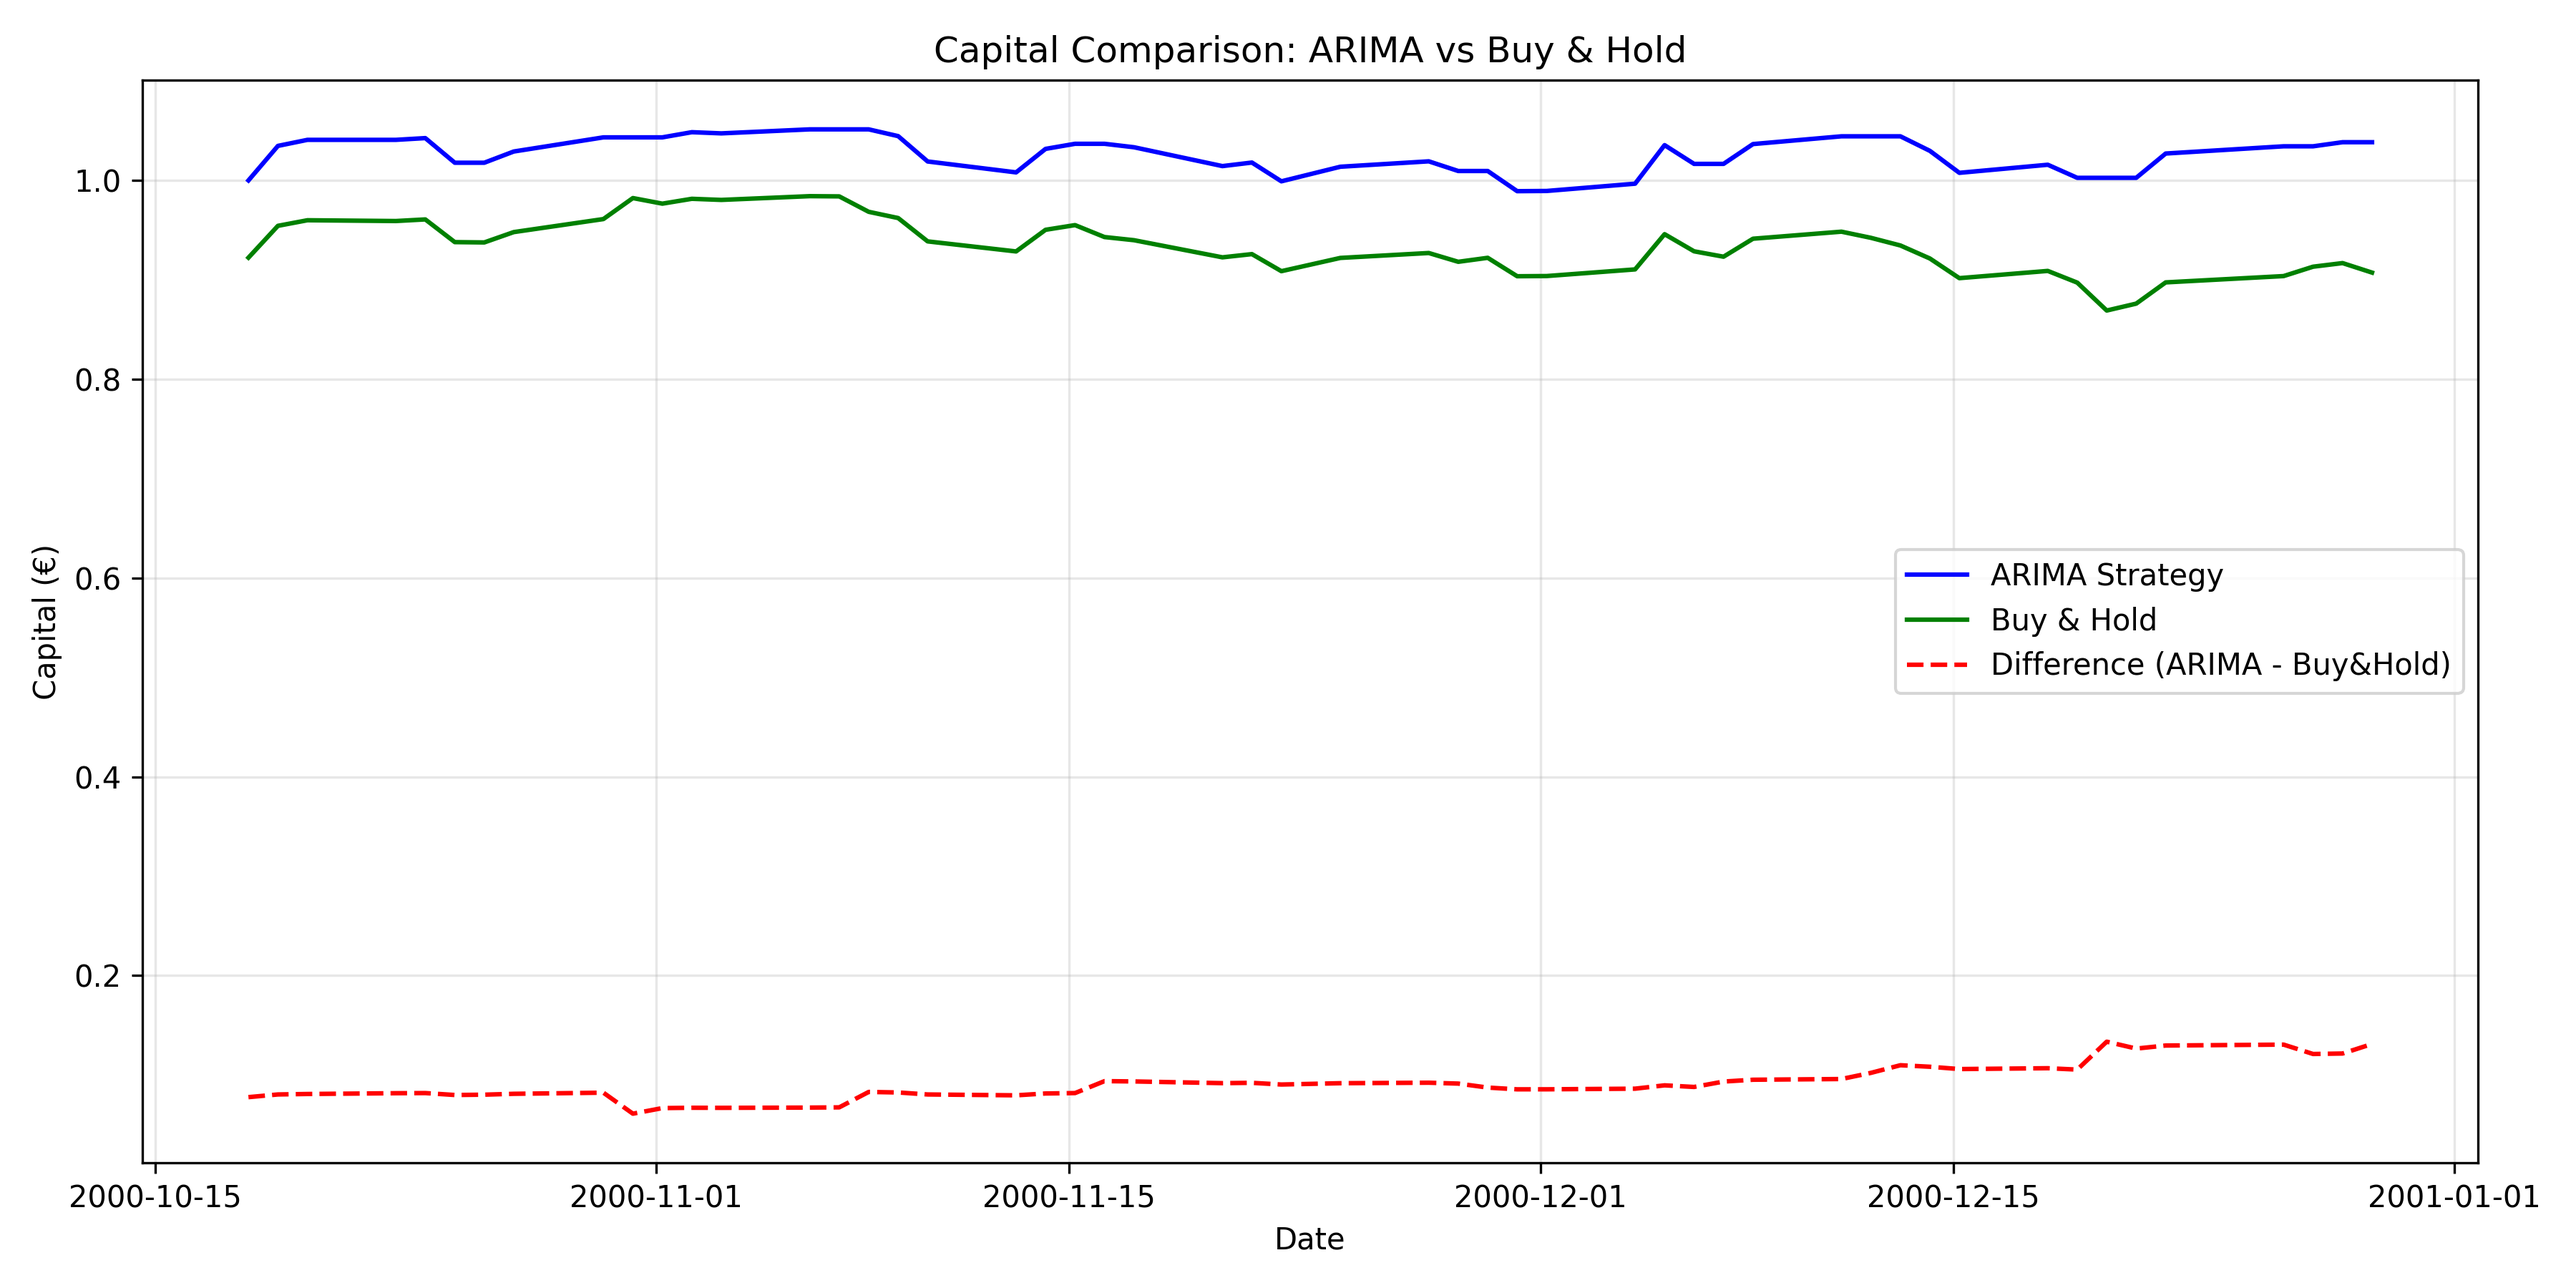
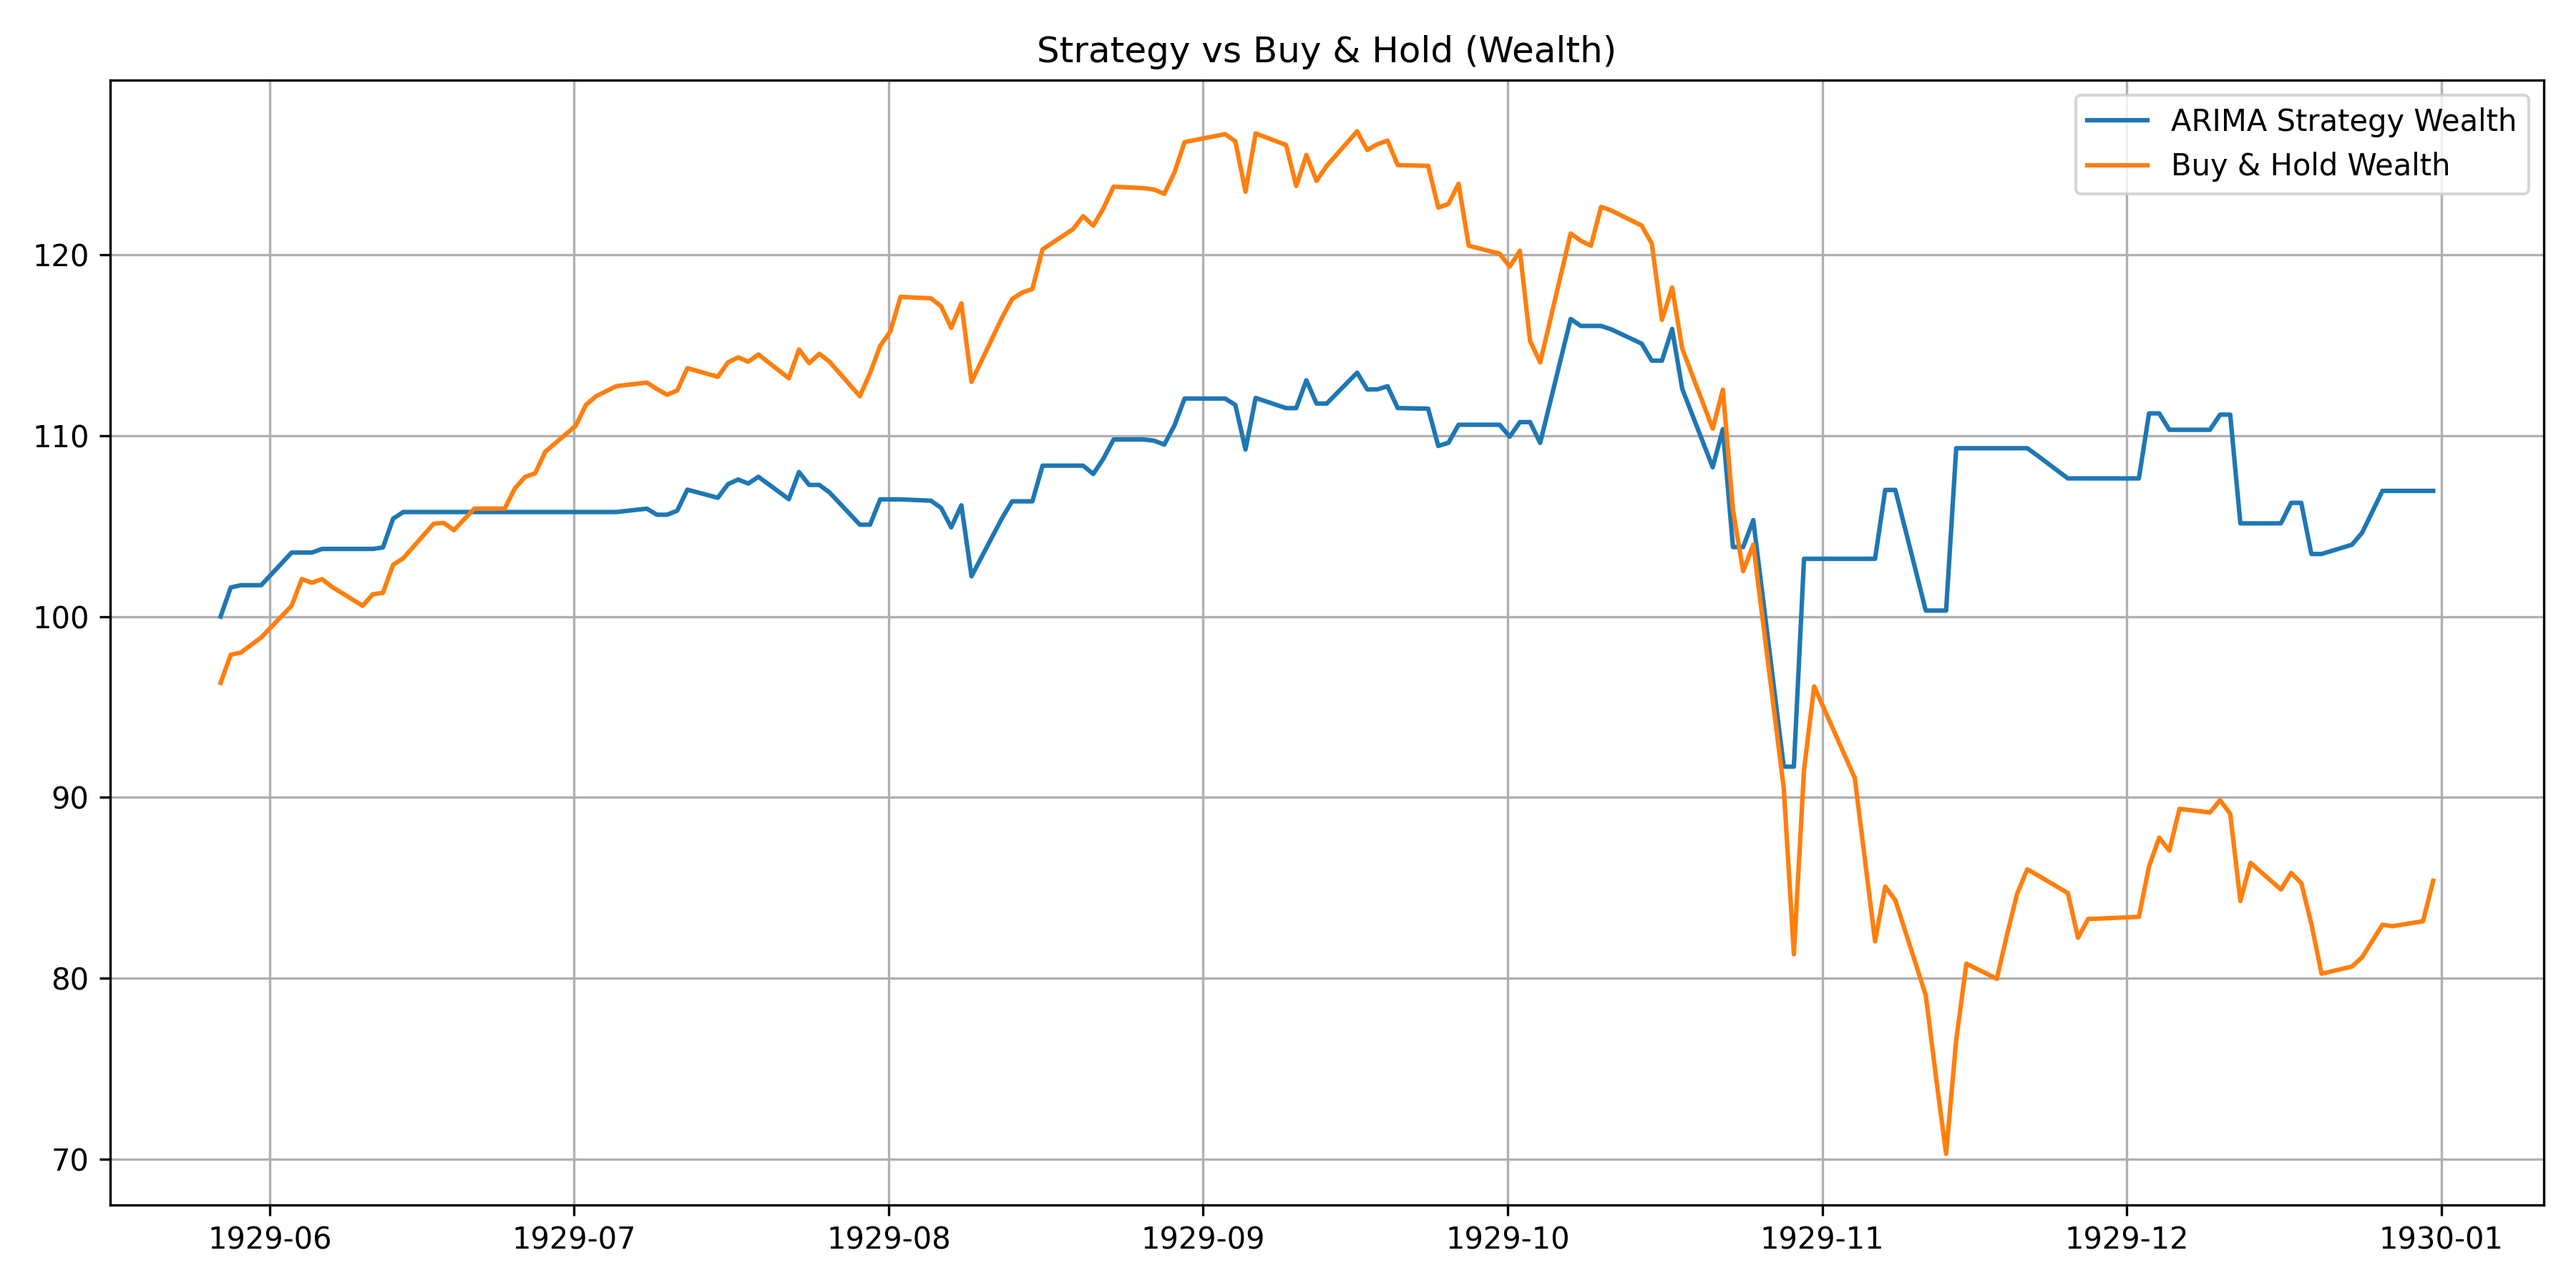
v1.3

diff --git a/CODE/ARIMA_trading.py b/CODE/ARIMA_trading.py
@@ -22,106 +22,97 @@ data.index = pd.to_datetime(data.index, utc=True)
 #______________________________________
 # Ready the data for ARIMA
 #______________________________________
-start_year = 2000
-end_year = 2000
-data = data[(data.index.year >= start_year) & (data.index.year <= end_year)]
+
 
 data = data[['Close']]
-data['daily_ret'] = data['Close'].pct_change()
+data['daily_ret'] = data['Close'].diff()
 data['daily_ret_norm'] = np.log(data['Close']).diff()
 data = data.ffill()
 
 data.dropna(inplace=True)
 
-window_size = 200
-train_window = data.iloc[:window_size][['daily_ret_norm']].copy()
+def arima_forecast(window_size,current_data):
+    train_window = current_data.iloc[:window_size][['daily_ret_norm']].copy()
+    predictions = pd.DataFrame(columns=['Actual', 'Forecast'])
+    for i in range(window_size, len(current_data)):
+        acf_values = acf(train_window.values, nlags=4)
+        acf_values = acf_values[1:] # skip lag=0
+        max_lag_acf = np.argmax(acf_values) + 1  
 
-predictions = pd.DataFrame(columns=['Actual', 'Forecast'])
+        pacf_values = pacf(train_window.values, nlags=4)
+        pacf_values = pacf_values[1:]  # skip lag=0
+        max_lag_pacf = np.argmax(pacf_values) + 1  
+        p = max_lag_acf
+        q = max_lag_pacf
 
+        model = ARIMA(train_window.values, order = (p, 0, q)).fit()
+        forecast = model.forecast(steps=1)
 
-for i in range(window_size, len(data)):
-    acf_values = acf(train_window.values, nlags=4)
-    acf_values = acf_values[1:] # skip lag=0
-    max_lag_acf = np.argmax(acf_values) + 1  
+        actual = current_data.iloc[i]['daily_ret_norm']
 
-    pacf_values = pacf(train_window.values, nlags=4)
-    pacf_values = pacf_values[1:]  # skip lag=0
-    max_lag_pacf = np.argmax(pacf_values) + 1  
-    p = max_lag_acf
-    q = max_lag_pacf
+        predictions.loc[current_data.index[i]] = [actual, forecast[0]]
 
-    model = ARIMA(train_window.values, order = (p, 0, q)).fit()
-    forecast = model.forecast(steps=1)
-
-    actual = data.iloc[i]['daily_ret_norm']
-
-    predictions.loc[data.index[i]] = [actual, forecast[0]]
-
-    train_window.loc[data.index[i]] = actual
-    if len(train_window) > window_size:
+        train_window.loc[current_data.index[i]] = actual
         train_window = train_window.iloc[1:]
-    print(f"Processed {i+1}/{len(data)}: Actual={actual}, Forecast={forecast[0]}")
+        #print(f"Processed {i+1}/{len(data)}: Actual={actual}, Forecast={forecast[0]}")
+    predictions.index = pd.to_datetime(predictions.index) 
+
+    # plt.figure(figsize=(12,6))
+    # plt.plot(predictions['Forecast'], color='red', label='Predicted')
+    # plt.plot(predictions['Actual'],  color='green', label='Actual')
+
+    # plt.title('ARIMA Forecast vs Actual')
+    # plt.xlabel('Date')
+    # plt.ylabel('daily_ret_norm')
+    # plt.legend()
+    # plt.grid(alpha=0.3)
+    # plt.tight_layout()
+    # plt.savefig('PLOTS/ARIMA_trading/Forecast.png', dpi=300)
+    #plt.close()
+
+    #____________________________________________
+    # Calculate returns and strategy performance
+    #____________________________________________
+    initial_capital=100.0
+    # Ensure numeric
+    predictions[['Actual','Forecast']] = predictions[['Actual','Forecast']].astype(float)
+
+    # Signal και στρατηγική (shift για αποφυγή lookahead)
+    predictions['Signal'] = (predictions['Forecast'] > 0).astype(int)
+    predictions['Strategy_LogRet'] = predictions['Signal'].shift(1) * predictions['Actual']
+    predictions['BuyHold_LogRet'] = predictions['Actual']
+
+    # From log-returns to wealth
+    predictions['CumLog_Strategy'] = predictions['Strategy_LogRet'].cumsum().fillna(0)
+    predictions['Wealth_Strategy'] = initial_capital * np.exp(predictions['CumLog_Strategy'])
+
+    predictions['CumLog_BuyHold'] = predictions['BuyHold_LogRet'].cumsum().fillna(0)
+    predictions['Wealth_BuyHold'] = initial_capital * np.exp(predictions['CumLog_BuyHold'])
+
+    # Plot wealth curves
+    plt.figure(figsize=(12,6))
+    plt.plot(predictions.index, predictions['Wealth_Strategy'], label='ARIMA Strategy Wealth')
+    plt.plot(predictions.index, predictions['Wealth_BuyHold'], label='Buy & Hold Wealth')
+    plt.legend()
+    plt.grid(True)
+    plt.title('Strategy vs Buy & Hold (Wealth)')
+    plt.tight_layout()
+    plt.savefig(f'PLOTS/ARIMA_trading/Strategy_vs_BuyAndHold.png', dpi=300)
+    plt.close()
+
+    # Μικρό summary
+    final_strategy = predictions['Wealth_Strategy'].iloc[-1]
+    final_bh = predictions['Wealth_BuyHold'].iloc[-1]
+    print(f"Final wealth ARIMA strategy={final_strategy:.2f} vs buy&hold={final_bh:.2f}, better? {final_strategy>final_bh}")
+
+#___________________________
+start_year = 1929
+end_year = 1929
+window_size = 100
+
+data = data[((data.index.year >= start_year) & (data.index.year <= end_year))]
+
+arima_forecast(window_size,data)
 
 
-predictions.index = pd.to_datetime(predictions.index)
 
-idx = pd.date_range(predictions.index.min(), predictions.index.max(), freq='B') 
-df_cont = predictions.reindex(idx)   
-
-df_cont = df_cont.ffill()   
-
-
-plt.figure(figsize=(12,6))
-plt.plot(predictions['Forecast'], color='red', label='Predicted')
-plt.plot(predictions['Actual'],  color='green', label='Actual')
-
-plt.title('ARIMA Forecast vs Actual')
-plt.xlabel('Date')
-plt.ylabel('daily_ret_norm')
-plt.legend()
-plt.grid(alpha=0.3)
-plt.tight_layout()
-plt.savefig('PLOTS/ARIMA_trading/Forecast.png', dpi=300)
-
-
-#____________________________________________
-# Calculate returns and strategy performance
-#____________________________________________
-
-initial_capital = 1  # Ή ό,τι κεφάλαιο θες
-
-# Δημιουργούμε τα σήματα
-predictions['Order'] = (predictions['Forecast'] > 0).astype(int)
-
-# Κέρδος ανά ημέρα με βάση το signal
-predictions['Profit'] = predictions['Order'] * data['daily_ret']
-
-# Κεφάλαιο με βάση ARIMA strategy
-predictions['ARIMA_Capital'] = initial_capital * (1 + predictions['Profit']).cumprod()
-
-# Κεφάλαιο Buy & Hold (επένδυση στην πρώτη μέρα και αφήνουμε να τρέξει)
-predictions['BuyAndHold'] = initial_capital * (1 + data['daily_ret']).cumprod()
-
-print("Final capital with ARIMA strategy:", predictions['ARIMA_Capital'].iloc[-1])
-print("Final capital with Buy & Hold:", predictions['BuyAndHold'].iloc[-1])
-
-predictions['Difference'] = predictions['ARIMA_Capital'] - predictions['BuyAndHold']
-
-
-plt.figure(figsize=(12,6))
-
-# Plot ARIMA vs Buy & Hold
-plt.plot(predictions.index, predictions['ARIMA_Capital'], label='ARIMA Strategy', color='blue')
-plt.plot(predictions.index, predictions['BuyAndHold'], label='Buy & Hold', color='green')
-
-# Plot Difference
-plt.plot(predictions.index, predictions['Difference'], label='Difference (ARIMA - Buy&Hold)', color='red', linestyle='--')
-
-plt.title("Capital Comparison: ARIMA vs Buy & Hold")
-plt.xlabel("Date")
-plt.ylabel("Capital (€)")
-plt.legend()
-plt.grid(alpha=0.3)
-plt.tight_layout()
-
-plt.savefig('PLOTS/ARIMA_trading/Strategy_vs_BuyAndHold.png', dpi=300)

diff --git a/CODE/get_data.py b/CODE/get_data.py
@@ -3,3 +3,7 @@ import yfinance as yf
 sp500 = yf.Ticker("^GSPC")
 df = sp500.history(period="max" , interval="1d")
 df.to_csv("DATA/S&P500_2025.csv")
+
+sp500 = yf.Ticker("AMD")
+df = sp500.history(period="max" , interval="1d")
+df.to_csv("DATA/AMD_2025.csv")
